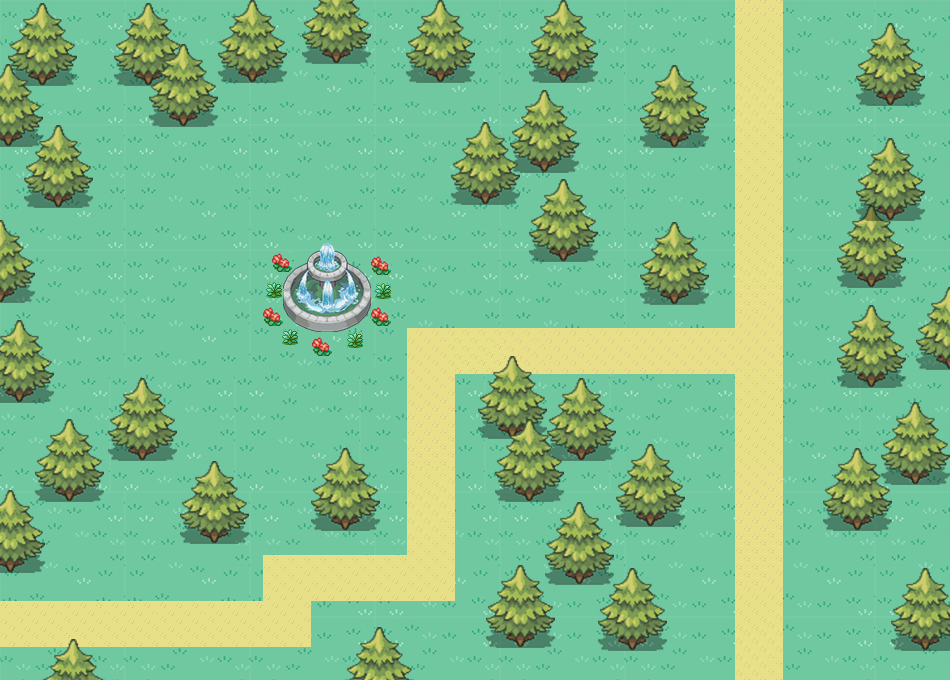
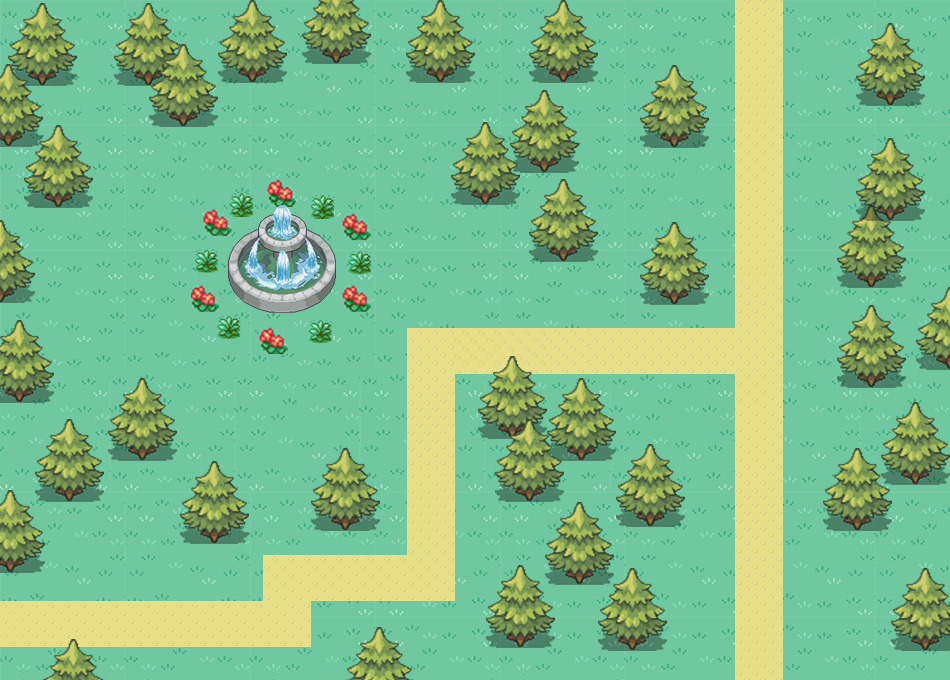
Made fountain bigger

Changed region(s): [[0.1832, 0.2471, 0.4274, 0.525]]

diff --git a/Phaser/scenes/ParkScene.js b/Phaser/scenes/ParkScene.js
@@ -54,7 +54,7 @@ export class ParkScene extends Phaser.Scene {
 				this.scene.start(CONSTANTS.SCENES.OVERWORLD);
 		});
 		//location name
-		this.add.text(20, 50, KEY, {fill: '#0f0', fontSize: CONSTANTS.TEXT.FONT_SIZE})
+		// this.add.text(20, 50, KEY, {fill: '#0f0', fontSize: CONSTANTS.TEXT.FONT_SIZE})
 
 		//create object buttons
 		this.createObjects();
@@ -67,7 +67,7 @@ export class ParkScene extends Phaser.Scene {
 			yoyo: true
 		});	
 		//add person girl 1
-		let park_girl = this.add.sprite(230, 340, 'park_girl', 7)
+		let park_girl = this.add.sprite(435, 355, 'park_girl', 4)
 		.setDisplaySize(45, 75)
 		.setInteractive()
 		.on('pointerdown', () => {
@@ -86,35 +86,35 @@ export class ParkScene extends Phaser.Scene {
 			tb.start(sceneText.fountain.interact, CONSTANTS.TEXT.TEXT_SPEED)
 		})
 		//trail 1
-		this.add.rectangle(405, 410, 55, 270,'#000000', 0.5)
+		this.add.rectangle(405, 410, 55, 270,'#000000', 0)
 		.setOrigin(0,0)
 		.setInteractive()
 		.on('pointerdown', () => {
 			tb.start(sceneText.trails.interact, CONSTANTS.TEXT.TEXT_SPEED)
 		})
 		//trail 2
-		this.add.rectangle(450, 410, 270, 55,'#000000', 0.5)
+		this.add.rectangle(450, 410, 270, 55,'#000000', 0)
 		.setOrigin(0,0)
 		.setInteractive()
 		.on('pointerdown', () => {
 			tb.start(sceneText.trails.interact, CONSTANTS.TEXT.TEXT_SPEED)
 		})
 		//trail 3
-		this.add.rectangle(718, 0, 55, 750,'#000000', 0.5)
+		this.add.rectangle(718, 0, 55, 750,'#000000', 0)
 		.setOrigin(0,0)
 		.setInteractive()
 		.on('pointerdown', () => {
 			tb.start(sceneText.trails.interact, CONSTANTS.TEXT.TEXT_SPEED)
 		})
 		//trail 4
-		this.add.rectangle(0, 670, 320, 55,'#000000', 0.5)
+		this.add.rectangle(0, 670, 320, 55,'#000000', 0)
 		.setOrigin(0,0)
 		.setInteractive()
 		.on('pointerdown', () => {
 			tb.start(sceneText.trails.interact, CONSTANTS.TEXT.TEXT_SPEED)
 		})
 		//trail 5
-		this.add.rectangle(265, 625, 150, 55,'#000000', 0.5)
+		this.add.rectangle(265, 625, 150, 55,'#000000', 0)
 		.setOrigin(0,0)
 		.setInteractive()
 		.on('pointerdown', () => {
